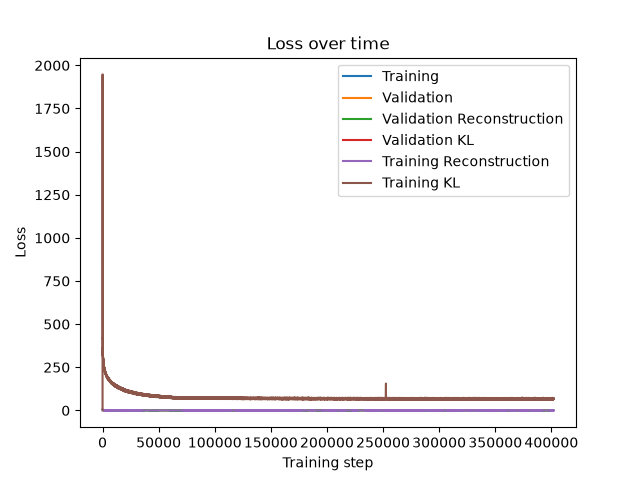
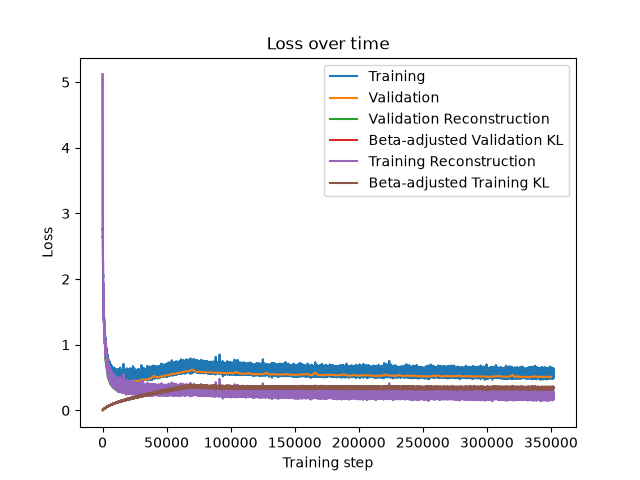
Adding the loss graph to the repo.

diff --git a/VAE/train.py b/VAE/train.py
@@ -23,7 +23,7 @@ def train():
     print(f"Using device: {device}")
 
     # Model hyperparameters (there's also dropout, L2 regularisation, Adam vs other optimisers)
-    batch_size, embed_dim, hidden_dim_encoder, hidden_dim_decoder, num_layers_encoder, num_layers_decoder, latent_dim, lr, epochs, beta_max, n_epochs_ramp_up  = 512, 64, 64, 32, 2, 1, 64, 0.0015, 30, 0.005, 5
+    batch_size, embed_dim, hidden_dim_encoder, hidden_dim_decoder, num_layers_encoder, num_layers_decoder, latent_dim, lr, epochs, beta_max, n_epochs_ramp_up  = 512, 32, 64, 32, 2, 1, 64, 0.0015, 30, 0.005, 5
     # free_bits = 0.05
     # n_cycles, ratio = 4, 0.5
 